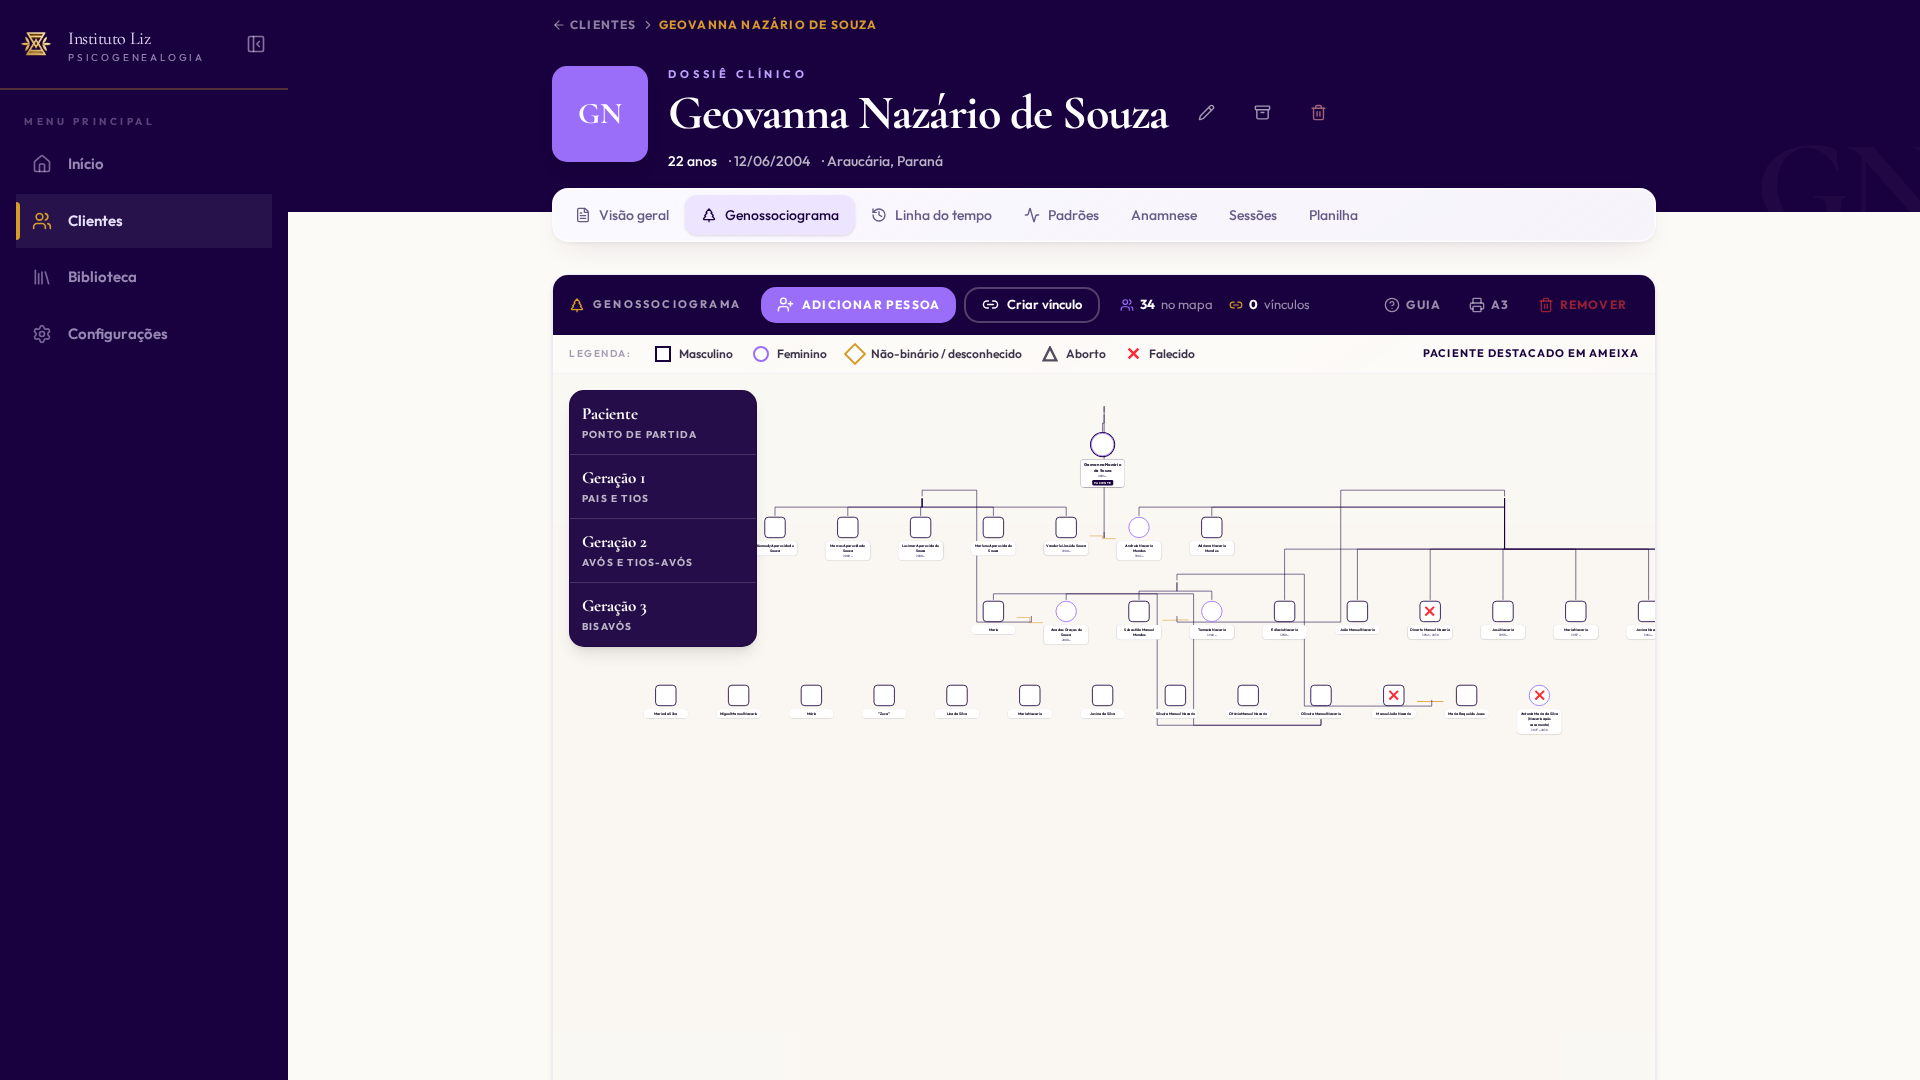
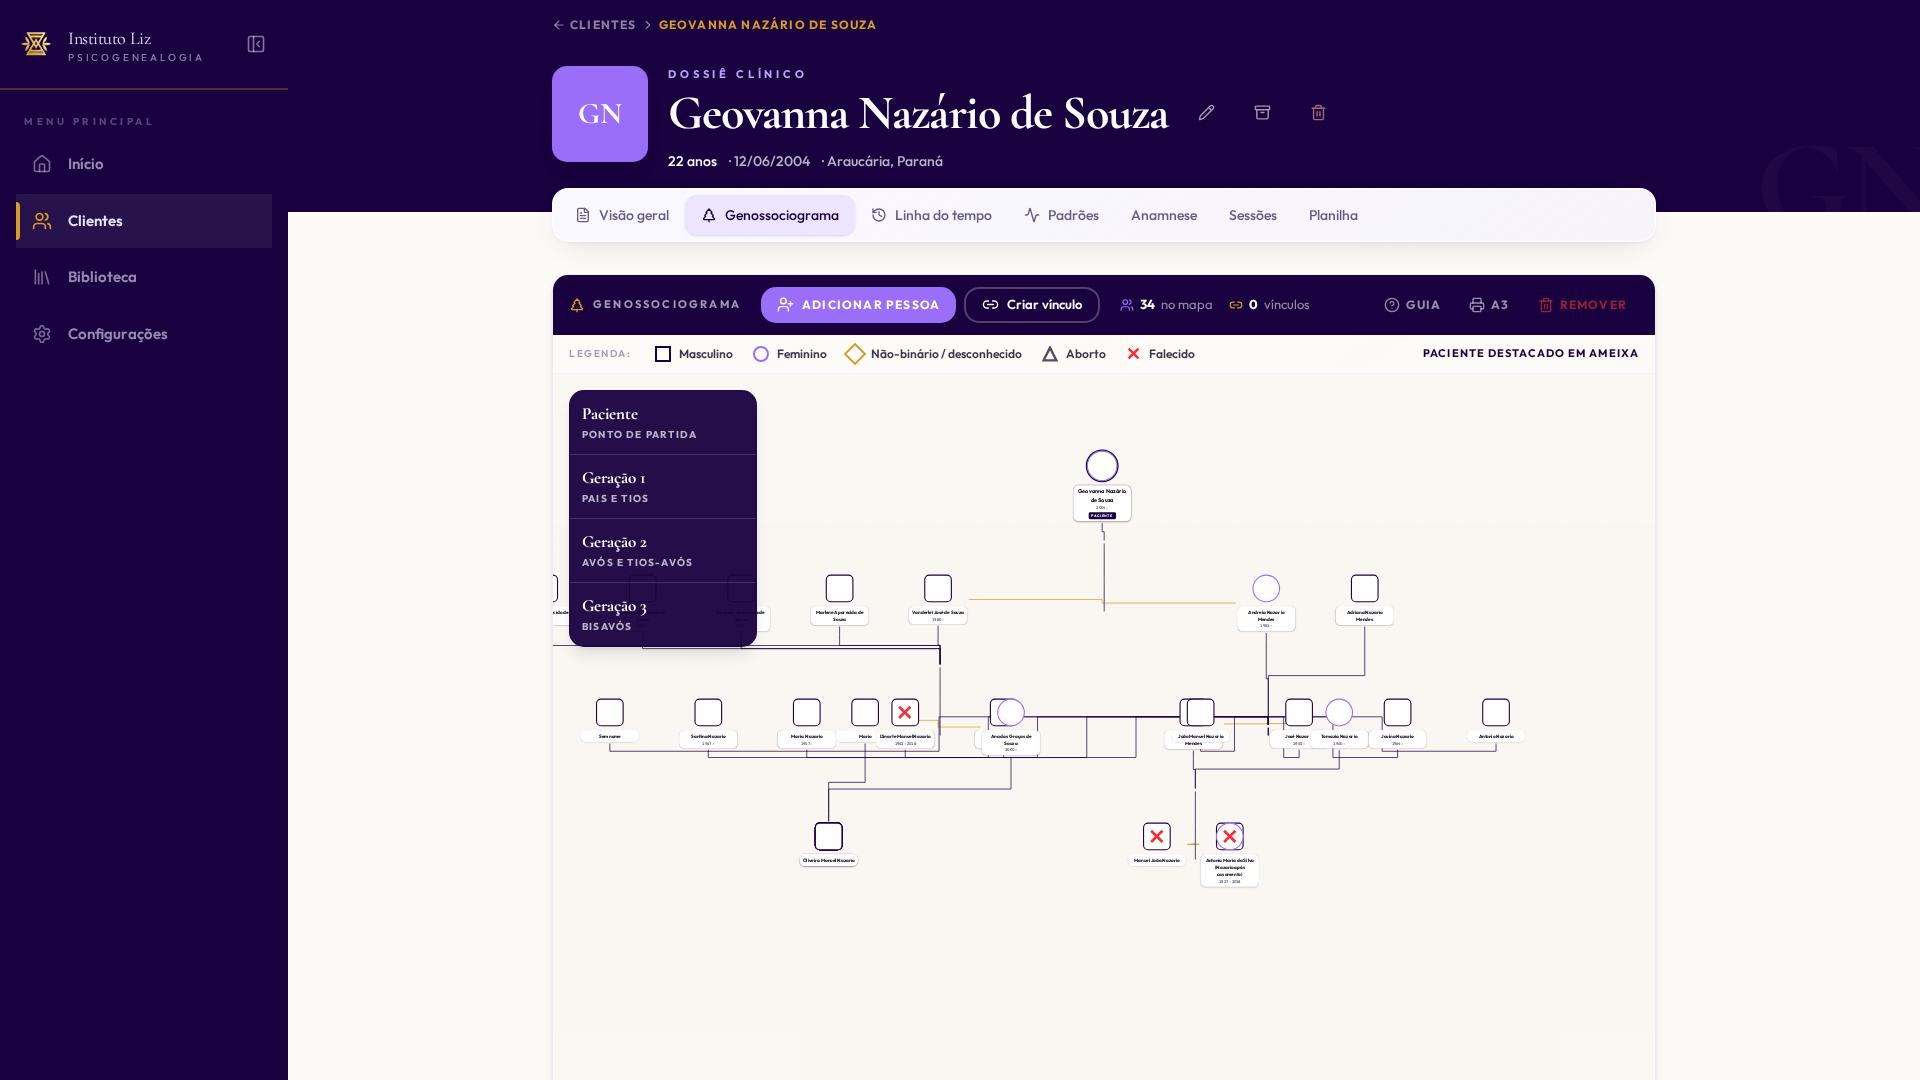
Work in progress

diff --git a/src/components/genogram/genogram-canvas.tsx b/src/components/genogram/genogram-canvas.tsx
@@ -82,8 +82,12 @@ export function GenogramCanvas(props: CanvasProps) {
 // ── Tamanhos generosos, otimizados para leitura em 4K ────────
 const NODE_W = 170;   // Largura do nó (shape + label)
 const NODE_H = 210;   // Altura total do nó
-const GENERATION_GAP = 300;   // Distância vertical entre gerações
+const GENERATION_GAP = 340;   // Distância vertical entre gerações
 const HORIZONTAL_STEP = NODE_W + 90; // Espaço horizontal entre nós de uma geração
+const DIRECT_PARENT_X = 450;
+const GRANDPARENT_PAIR_GAP = 400;
+const GREAT_GRANDPARENT_PAIR_GAP = 200;
+const COLLATERAL_GAP = 270;
 
 /**
  * Descobre a geração da pessoa (0 = cliente, 1 = pais, 2 = avós, 3 = bisavós).
@@ -104,8 +108,70 @@ function generationForData(data: unknown): number {
     canonical.includes("mae") ||
     canonical.startsWith("tio")
   ) return 1;
-  if (canonical.includes("irmã") || canonical.includes("irma")) return 1;
+  if (canonical.includes("irmã") || canonical.includes("irma")) return 0;
+  if (canonical.includes("cônjuge") || canonical.includes("conjuge") || canonical.includes("filho")) return 0;
   return 1;
+}
+
+function alternatingCenter(anchor: number, orderIndex: number, gap = COLLATERAL_GAP): number {
+  const step = Math.floor(orderIndex / 2) + 1;
+  return anchor + (orderIndex % 2 === 0 ? -step : step) * gap;
+}
+
+function directBloodCenter(canonical: string, orderIndex: number, isProband: boolean): number | null {
+  if (isProband) return 0;
+  const c = canonical.toLowerCase();
+
+  const fatherX = -DIRECT_PARENT_X;
+  const motherX = DIRECT_PARENT_X;
+  const paternalGrandfatherX = fatherX - GRANDPARENT_PAIR_GAP / 2;
+  const paternalGrandmotherX = fatherX + GRANDPARENT_PAIR_GAP / 2;
+  const maternalGrandfatherX = motherX - GRANDPARENT_PAIR_GAP / 2;
+  const maternalGrandmotherX = motherX + GRANDPARENT_PAIR_GAP / 2;
+
+  if (c.includes("irmã(o)") || c.startsWith("irmã") || c.startsWith("irma")) {
+    return alternatingCenter(0, orderIndex);
+  }
+
+  if (c === "pai") return fatherX - orderIndex * COLLATERAL_GAP;
+  if (c === "mãe" || c === "mae") return motherX + orderIndex * COLLATERAL_GAP;
+  if (c.startsWith("tio(a) paterno")) return fatherX - (orderIndex + 1) * COLLATERAL_GAP;
+  if (c.startsWith("tio(a) materno")) return motherX + (orderIndex + 1) * COLLATERAL_GAP;
+
+  if (c === "avô paterno") return paternalGrandfatherX;
+  if (c === "avó paterna") return paternalGrandmotherX;
+  if (c === "avô materno") return maternalGrandfatherX;
+  if (c === "avó materna") return maternalGrandmotherX;
+  if (c.includes("irmã(o) do avô paterno") || c.includes("irmã(o) da avó paterna")) {
+    return paternalGrandfatherX - (orderIndex + 1) * COLLATERAL_GAP;
+  }
+  if (c.includes("irmã(o) do avô materno") || c.includes("irmã(o) da avó materna")) {
+    return maternalGrandmotherX + (orderIndex + 1) * COLLATERAL_GAP;
+  }
+
+  if (c.includes("bisavô paterno (pai do avô)")) return paternalGrandfatherX - GREAT_GRANDPARENT_PAIR_GAP / 2;
+  if (c.includes("bisavó paterna (mãe do avô)")) return paternalGrandfatherX + GREAT_GRANDPARENT_PAIR_GAP / 2;
+  if (c.includes("bisavô paterno (pai da avó)")) return paternalGrandmotherX - GREAT_GRANDPARENT_PAIR_GAP / 2;
+  if (c.includes("bisavó paterna (mãe da avó)")) return paternalGrandmotherX + GREAT_GRANDPARENT_PAIR_GAP / 2;
+  if (c.includes("bisavô materno (pai do avô)")) return maternalGrandfatherX - GREAT_GRANDPARENT_PAIR_GAP / 2;
+  if (c.includes("bisavó materna (mãe do avô)")) return maternalGrandfatherX + GREAT_GRANDPARENT_PAIR_GAP / 2;
+  if (c.includes("bisavô materno (pai da avó)")) return maternalGrandmotherX - GREAT_GRANDPARENT_PAIR_GAP / 2;
+  if (c.includes("bisavó materna (mãe da avó)")) return maternalGrandmotherX + GREAT_GRANDPARENT_PAIR_GAP / 2;
+  if (c.includes("irmã(o) do bisavô paterno")) return paternalGrandfatherX - (orderIndex + 2) * COLLATERAL_GAP;
+  if (c.includes("irmã(o) do bisavô materno")) return maternalGrandmotherX + (orderIndex + 2) * COLLATERAL_GAP;
+
+  return null;
+}
+
+type EdgeWithPathOptions = Edge & { pathOptions?: { borderRadius?: number } };
+
+function forceRightAngle(edge: Edge): Edge {
+  const existing = (edge as EdgeWithPathOptions).pathOptions ?? {};
+  return {
+    ...edge,
+    type: edge.type ?? "step",
+    pathOptions: { ...existing, borderRadius: 0 },
+  } as Edge;
 }
 
 /**
@@ -165,17 +231,19 @@ function getLayoutedElements(nodes: Node[], edges: Edge[], probandId?: string) {
   // Agrupar por geração — cliente forçado a 0
   const byGeneration = new Map<number, Node[]>();
   for (const n of nodes) {
-    const g = n.id === probandId ? 0 : Math.max(1, generationForData(n.data));
+    const g = n.id === probandId ? 0 : Math.max(0, generationForData(n.data));
     if (!byGeneration.has(g)) byGeneration.set(g, []);
     byGeneration.get(g)!.push(n);
   }
 
-  // Calcular rank para cada nó
-  type Placed = { node: Node; rank: number; canonical: string };
+  // Posicionamento clínico: a família de sangue direta fica centralizada.
+  // Cada pessoa deve ficar acima do ponto médio dos próprios pais.
+  type Placed = { node: Node; centerX: number; canonical: string; generation: number };
   const placedByGen = new Map<number, Placed[]>();
 
   byGeneration.forEach((generationNodes, generation) => {
     const perCategory = new Map<string, number>();
+    let fallbackIndex = 0;
     const placed: Placed[] = generationNodes.map((node) => {
       const d = node.data as PersonNodeData & { relationship_to_proband?: string | null };
       const canonical = node.id === probandId
@@ -184,8 +252,9 @@ function getLayoutedElements(nodes: Node[], edges: Edge[], probandId?: string) {
       const category = canonical.toLowerCase();
       const idx = perCategory.get(category) ?? 0;
       perCategory.set(category, idx + 1);
-      const rank = node.id === probandId ? 0 : rankFor(canonical, idx);
-      return { node, rank, canonical };
+      const directCenter = directBloodCenter(canonical, idx, node.id === probandId);
+      const centerX = directCenter ?? alternatingCenter(0, fallbackIndex++, 900);
+      return { node, centerX, canonical, generation };
     });
     placedByGen.set(generation, placed);
   });
@@ -193,56 +262,19 @@ function getLayoutedElements(nodes: Node[], edges: Edge[], probandId?: string) {
   const layoutedNodes: Node[] = [];
 
   placedByGen.forEach((placed, generation) => {
-    placed.sort((a, b) => a.rank - b.rank || a.node.id.localeCompare(b.node.id));
-
-    const xs = placed.map((_, i) => i * HORIZONTAL_STEP);
-
-    let anchorAvgX = 0;
-    const coreCanonicals: string[] = generation === 0
-      ? ["consulente"]
-      : generation === 1
-        ? ["pai", "mãe", "mae"]
-        : generation === 2
-          ? ["avô paterno", "avó paterna", "avô materno", "avó materna"]
-          : ["bisavô paterno (pai do avô)", "bisavó paterna (mãe do avô)",
-             "bisavô paterno (pai da avó)", "bisavó paterna (mãe da avó)",
-             "bisavô materno (pai do avô)", "bisavó materna (mãe do avô)",
-             "bisavô materno (pai da avó)", "bisavó materna (mãe da avó)"];
-
-    const coreIdx = placed
-      .map((p, i) => (coreCanonicals.includes(p.canonical.toLowerCase()) ? i : -1))
-      .filter((i) => i >= 0);
-
-    if (coreIdx.length > 0) {
-      anchorAvgX = coreIdx.reduce((s, i) => s + xs[i], 0) / coreIdx.length;
-    } else if (placed.length > 0) {
-      anchorAvgX = xs.reduce((s, x) => s + x, 0) / xs.length;
-    }
+    placed.sort((a, b) => a.centerX - b.centerX || a.node.id.localeCompare(b.node.id));
 
     // y = geração * gap — cliente (gen 0) no topo, ancestrais descendo
     const y = generation * GENERATION_GAP;
 
-    placed.forEach((p, i) => {
+    placed.forEach((p) => {
       layoutedNodes.push({
         ...p.node,
-        position: { x: xs[i] - anchorAvgX - NODE_W / 2, y },
+        position: { x: p.centerX - NODE_W / 2, y },
         data: { ...p.node.data, generation },
       });
     });
   });
-
-  // Cliente exatamente em x=-NODE_W/2 (centro em 0)
-  if (probandId) {
-    const proband = layoutedNodes.find((n) => n.id === probandId);
-    if (proband) {
-      const dx = -NODE_W / 2 - proband.position.x;
-      if (dx !== 0) {
-        layoutedNodes.forEach((n) => {
-          n.position = { x: n.position.x + dx, y: n.position.y };
-        });
-      }
-    }
-  }
 
   // ── Geometric Pedigree Routing (Union Nodes) ──
   //
@@ -345,8 +377,9 @@ function getLayoutedElements(nodes: Node[], edges: Edge[], probandId?: string) {
     const unionNode = finalNodes.find((n) => n.id === unionId);
     if (!unionNode) return;
 
-    const centersX = childNodes.map((n) => n.position.x + NODE_W / 2);
-    const busX = (Math.min(...centersX) + Math.max(...centersX)) / 2;
+    // O ponto de convergência dos filhos deve ser o centro do casal/pais,
+    // não a média dos filhos. Isso mantém o tronco vertical padronizado.
+    const busX = unionNode.position.x;
     // Bus entre gerações: logo ABAIXO da fileira dos filhos (que está por
     // cima), e ACIMA do pivô do casal (que está na fileira dos pais).
     const childBottomY = Math.max(...childNodes.map((n) => n.position.y)) + NODE_H;
@@ -368,30 +401,30 @@ function getLayoutedElements(nodes: Node[], edges: Edge[], probandId?: string) {
 
     // Tronco vertical: barra dos irmãos (source, bottom) → pivô do casal
     // (target, top). Como pivô está ABAIXO do bus, roteia reto para baixo.
-    finalEdges.push({
+      finalEdges.push(forceRightAngle({
       id: `trunk_${unionId}`,
       source: busId,
       target: unionId,
       type: "step",
       style: { stroke: "var(--color-plum)", strokeWidth: 2 },
-    });
+      } as Edge));
 
     // Cada filho conecta na MESMA barra: filho (source, bottom) → bus
     // (target, top). Todos os irmãos convergem no mesmo ponto do bus.
     childNodes.forEach((child) => {
-      finalEdges.push({
+      finalEdges.push(forceRightAngle({
         id: `sib_${busId}_${child.id}`,
         source: child.id,
         target: busId,
         type: "step",
         style: { stroke: "var(--color-plum)", strokeWidth: 2 },
-      });
+      } as Edge));
     });
   });
 
   finalEdges.push(...orphanParentEdges);
 
-  return { nodes: finalNodes, edges: [...otherEdges, ...finalEdges] };
+  return { nodes: finalNodes, edges: [...otherEdges, ...finalEdges].map(forceRightAngle) };
 }
 
 
